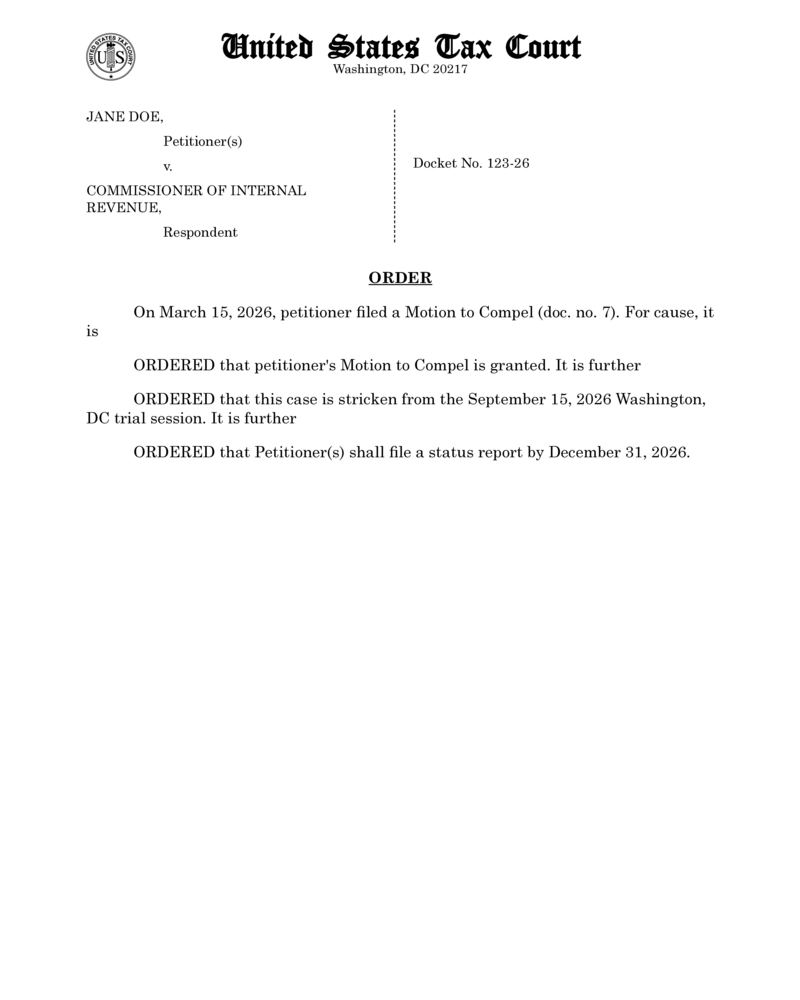
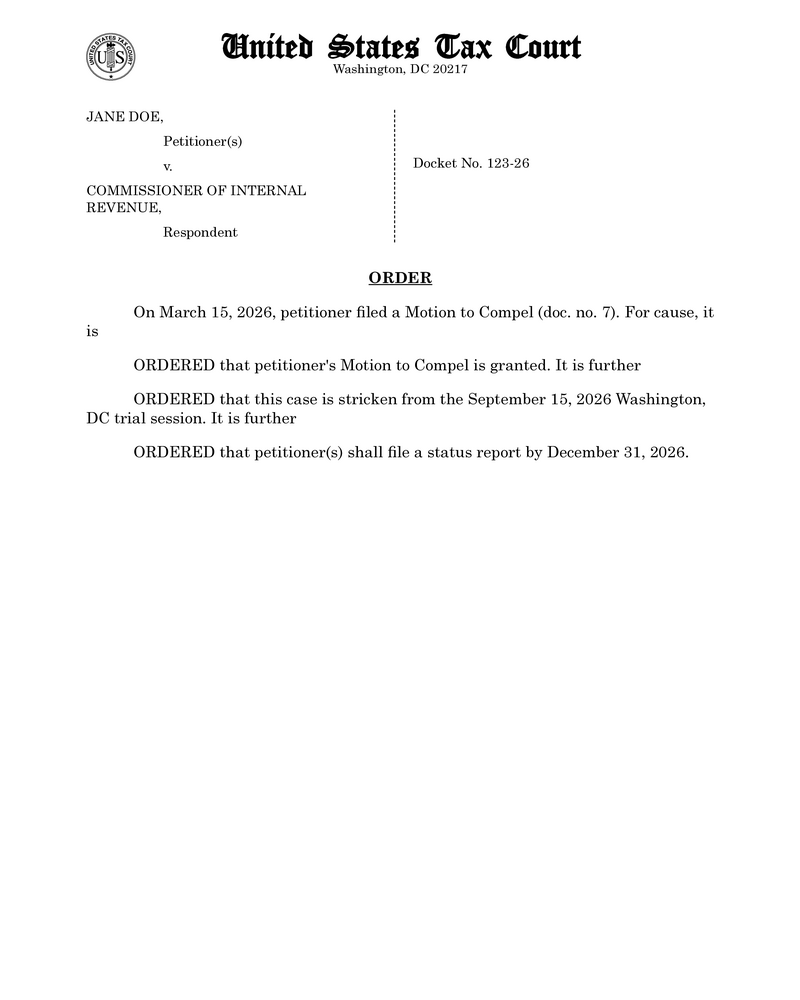
9607: filling order lowercase order

Changed region(s): [[0.3125, 0.434, 0.875, 0.465]]

diff --git a/web-client/src/presenter/actions/GrantDenyMotion/prepareGrantDenyMotionAction.ts b/web-client/src/presenter/actions/GrantDenyMotion/prepareGrantDenyMotionAction.ts
@@ -40,6 +40,9 @@ const wrap = (inner: string) => `<p>&emsp;&emsp;&emsp;${inner}</p>`;
 const getMovantPossessive = (movant: string): string =>
   movant === 'respondent' ? "respondent's" : "petitioner's";
 
+const formatFilingPartyForDocument = (filingParty: string): string =>
+  filingParty.toLowerCase();
+
 const buildStatusReportClause = ({
   dueDateFormatted,
   dueDateMessage,
@@ -65,7 +68,7 @@ const buildStatusReportClause = ({
           `ORDERED that the parties shall file a joint status report by ${dueDateFormatted}.`,
         )
       : wrap(
-          `ORDERED that ${filingParty} shall file a status report by ${dueDateFormatted}.`,
+          `ORDERED that ${formatFilingPartyForDocument(filingParty)} shall file a status report by ${dueDateFormatted}.`,
         );
   }
 
@@ -79,7 +82,7 @@ const buildStatusReportClause = ({
           `ORDERED that the parties shall file a joint status report or proposed stipulated decision by ${dueDateFormatted}.`,
         )
       : wrap(
-          `ORDERED that ${filingParty} shall file a status report or proposed stipulated decision by ${dueDateFormatted}.`,
+          `ORDERED that ${formatFilingPartyForDocument(filingParty)} shall file a status report or proposed stipulated decision by ${dueDateFormatted}.`,
         );
   }
 

diff --git a/web-client/src/presenter/actions/GrantDenyMotion/prepareGrantDenyMotionAction.test.ts b/web-client/src/presenter/actions/GrantDenyMotion/prepareGrantDenyMotionAction.test.ts
@@ -328,7 +328,30 @@ describe('prepareGrantDenyMotionAction', () => {
     });
 
     expect(result.state.form.richText).toContain(
-      'ORDERED that Respondent shall file a status report by December 31, 2026.',
+      'ORDERED that respondent shall file a status report by December 31, 2026.',
+    );
+  });
+
+  it('lowercases petitioner(s) in the status-report clause', async () => {
+    const result = await runAction(prepareGrantDenyMotionAction, {
+      modules: { presenter },
+      state: {
+        ...baseState,
+        form: {
+          disposition: MOTION_DISPOSITIONS.GRANTED,
+          dueDate: '2026-12-31',
+          dueDateMessage:
+            GRANT_DENY_MOTION_OPTIONS.dueDateMessageOptions.statusReport,
+          filingParty: GRANT_DENY_MOTION_OPTIONS.filingPartyOptions.petitioners,
+        },
+      },
+    });
+
+    expect(result.state.form.richText).toContain(
+      'ORDERED that petitioner(s) shall file a status report by December 31, 2026.',
+    );
+    expect(result.state.form.richText).not.toContain(
+      'Petitioner(s) shall file',
     );
   });
 

diff --git a/shared/src/business/utilities/documentGenerators/grantDenyMotionOrder.test.ts b/shared/src/business/utilities/documentGenerators/grantDenyMotionOrder.test.ts
@@ -48,7 +48,7 @@ describe('Grant/Deny Motion orders', () => {
 
         <p>${INDENT}ORDERED that this case is stricken from the September 15, 2026 Washington, DC trial session. It is further</p>
 
-        <p>${INDENT}ORDERED that Petitioner(s) shall file a status report by December 31, 2026.</p>`,
+        <p>${INDENT}ORDERED that petitioner(s) shall file a status report by December 31, 2026.</p>`,
       }),
     testDescription:
       'generates a Grant/Deny Motion order granting a single petitioner motion',
